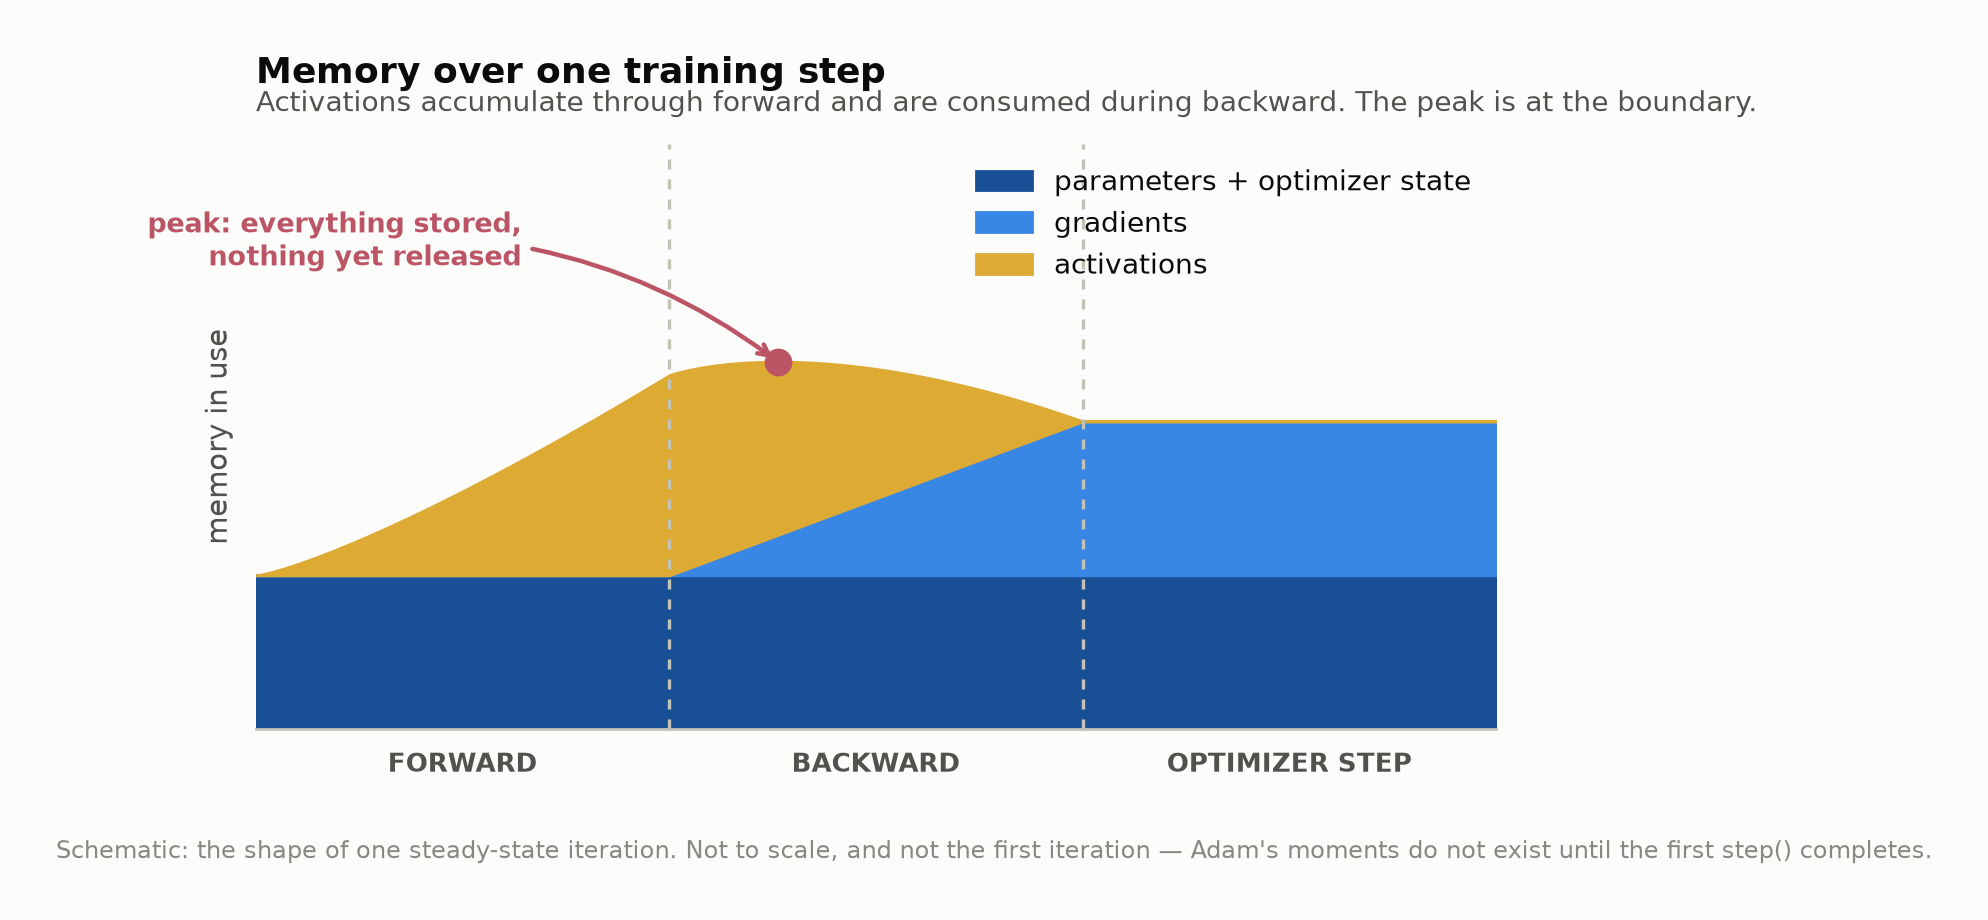
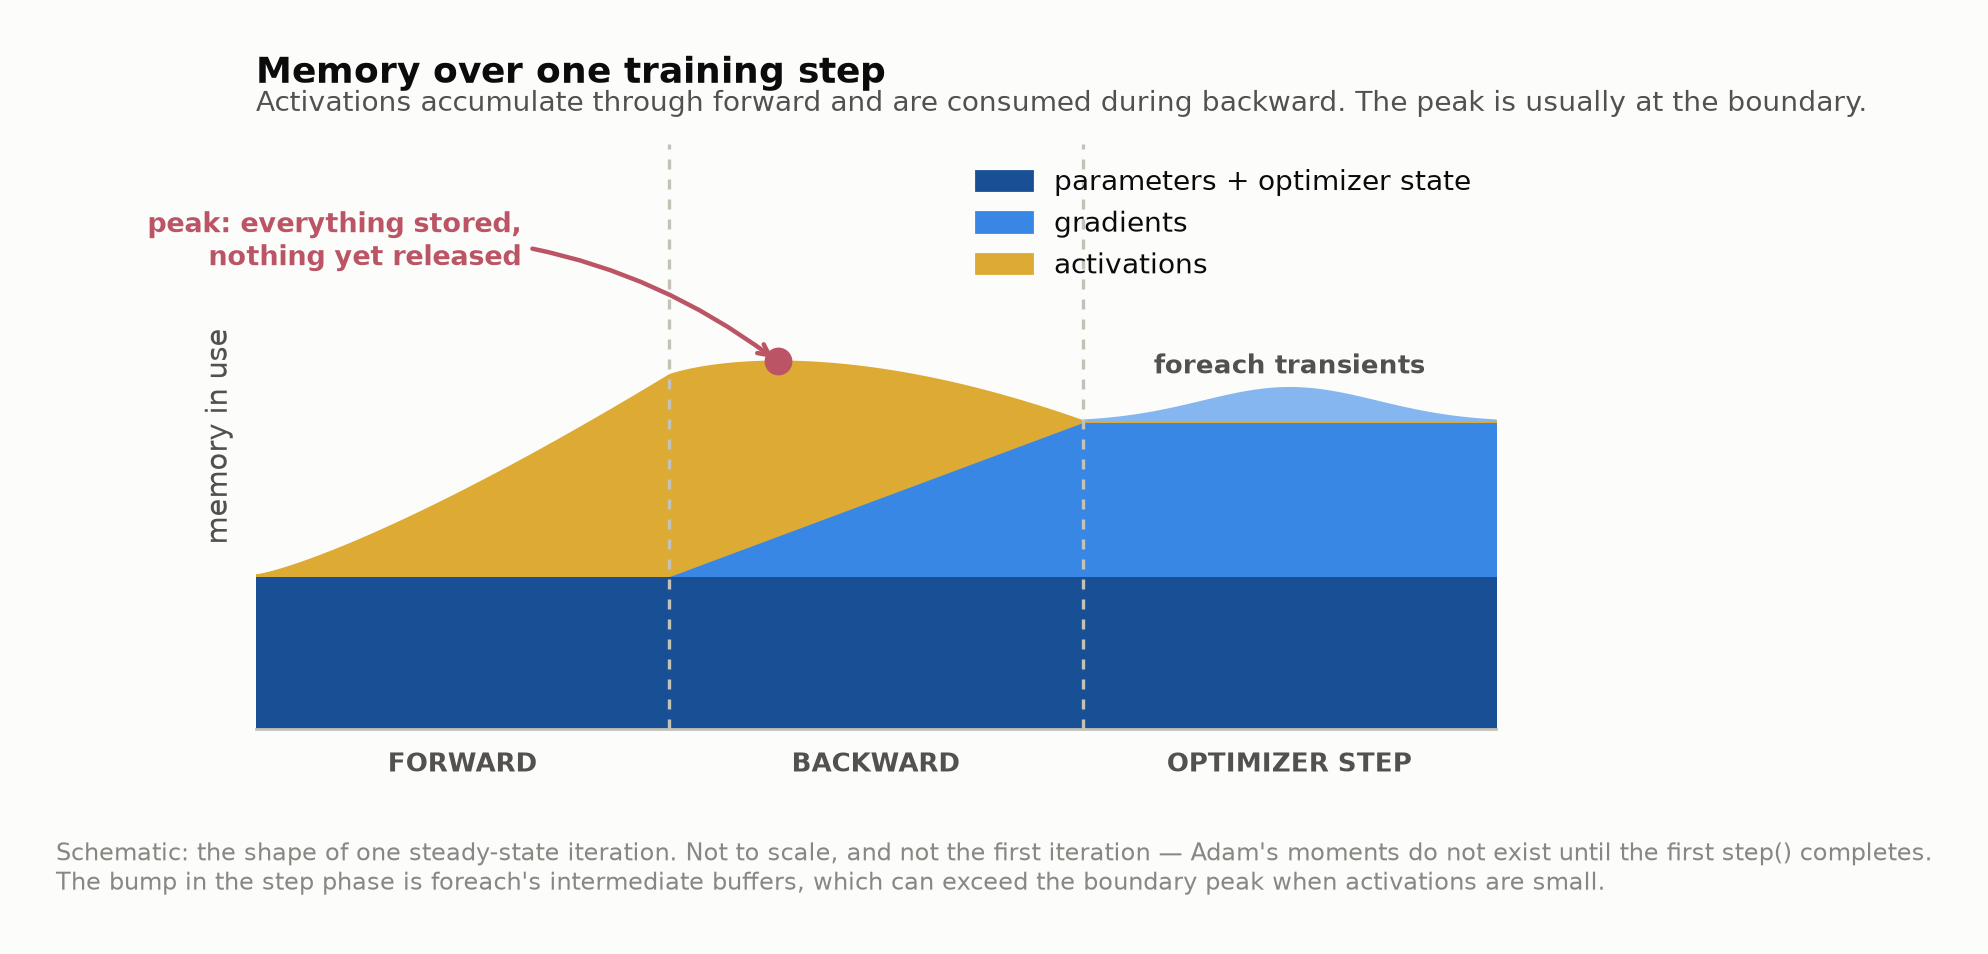
fix(wiki-build): show the foreach transients in the memory-over-step figure
The step phase was drawn flat, which contradicted two pages: the optimizer page
says foreach "allocates intermediate buffers, so peak memory rises", and the
training-loop page says those transients can move the high-water mark out of the
forward/backward boundary and into step().

Drawn below the activation peak, because both pages say foreach *can* win, not
that it always does; labelled directly rather than as a fourth legend entry,
which the three-hue palette has no room for. The caveat moved to the footnote
after a longer subtitle stretched the tight bounding box and squeezed the axes
into half the canvas.

diff --git a/docs/_wiki_build/make_figures.py b/docs/_wiki_build/make_figures.py
@@ -340,6 +340,14 @@ def fig_memory_over_step():
                 fontsize=9.8, color=ROSE, fontweight="bold", ha="right",
                 arrowprops=dict(arrowstyle="->", color=ROSE, lw=1.6,
                                 connectionstyle="arc3,rad=-0.2"))
+    # foreach optimizers batch elementwise ops across every parameter, allocating
+    # intermediate buffers, so the step phase is not flat. Labelled directly rather
+    # than as a fourth legend entry, which the three-hue palette has no room for.
+    transient = np.where(x >= 2, 0.45 * np.exp(-(((x - 2.5) / 0.30) ** 2)), 0.0)
+    top = states + grads + act
+    ax.fill_between(x, top, top + transient, color=BLUE_ORDINAL[0], linewidth=0)
+    ax.text(2.5, states + 2.0 + 0.62, "foreach transients", ha="center",
+            fontsize=9.3, color=INK_2, fontweight="bold")
     for xpos, lab in ((0.5, "FORWARD"), (1.5, "BACKWARD"), (2.5, "OPTIMIZER STEP")):
         ax.text(xpos, -0.55, lab, ha="center", fontsize=9.5,
                 color=INK_2, fontweight="bold")
@@ -354,9 +362,11 @@ def fig_memory_over_step():
     ax.grid(False)
     despine(ax, keep=("bottom",))
     title(ax, "Memory over one training step",
-          "Activations accumulate through forward and are consumed during backward. The peak is at the boundary.")
+          "Activations accumulate through forward and are consumed during backward. The peak is usually at the boundary.")
     note(fig, "Schematic: the shape of one steady-state iteration. Not to scale, and not the first iteration — "
-              "Adam's moments do not exist until the first step() completes.")
+              "Adam's moments do not exist until the first step() completes.\n"
+              "The bump in the step phase is foreach's intermediate buffers, which can exceed the boundary peak "
+              "when activations are small.")
     save(fig, f"{OUT}/08_memory_over_step.png")
 
 
